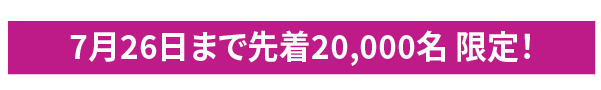
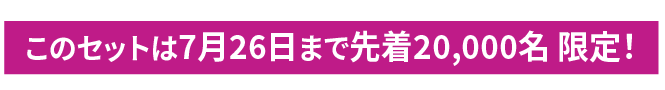
見出し9画像変更、一部文言の句読点など細かいところ修正

Changed region(s): [[0.0, 0.2222, 0.9584, 0.8444], [0.9884, 0.2444, 1.0, 0.8222]]

diff --git a/beauty-style.html b/beauty-style.html
@@ -98,7 +98,7 @@
                     <p><img class="size-full wp-image-7001 aligncenter" src="./files/gif_4.gif" alt=""
                         data-recalc-dims="1"></p>
                     <br>
-                    <p><span class="ymarker"><strong>みて。この感じ。</strong></span></p>
+                    <p><span class="ymarker"><strong>みて。この感じ・・・！！</strong></span></p>
                     <br>
                     <br>
 
@@ -243,7 +243,7 @@
                     </p>
                     <p>普通だったら化粧水、美容液、乳液、クリーム･･･と一式揃えたら軽く1万2万と飛んでいってしまいますよね。</p>
                     <p>
-                      でもブライトエイジなら化粧水と乳液状美容液にメイク落とし（ジェルタイプ）が付いてくるセットが
+                      でもブライトエイジなら、化粧水と乳液状美容液にメイク落とし（ジェルタイプ）が付いてくるセットが
                     </p>
                     <p><strong>
                         <span style="color: #000000;"><strong>期間限定でお得にお試しできちゃうそうなんです・・・！！！！
@@ -341,6 +341,7 @@
                           </strong></strong></span></p>
                     </p>
                     <br>
+
                     <p><img class="aligncenter size-full wp-image-9328" src="./files/p_15.png" alt=""
                         data-recalc-dims="1"></p>
 
